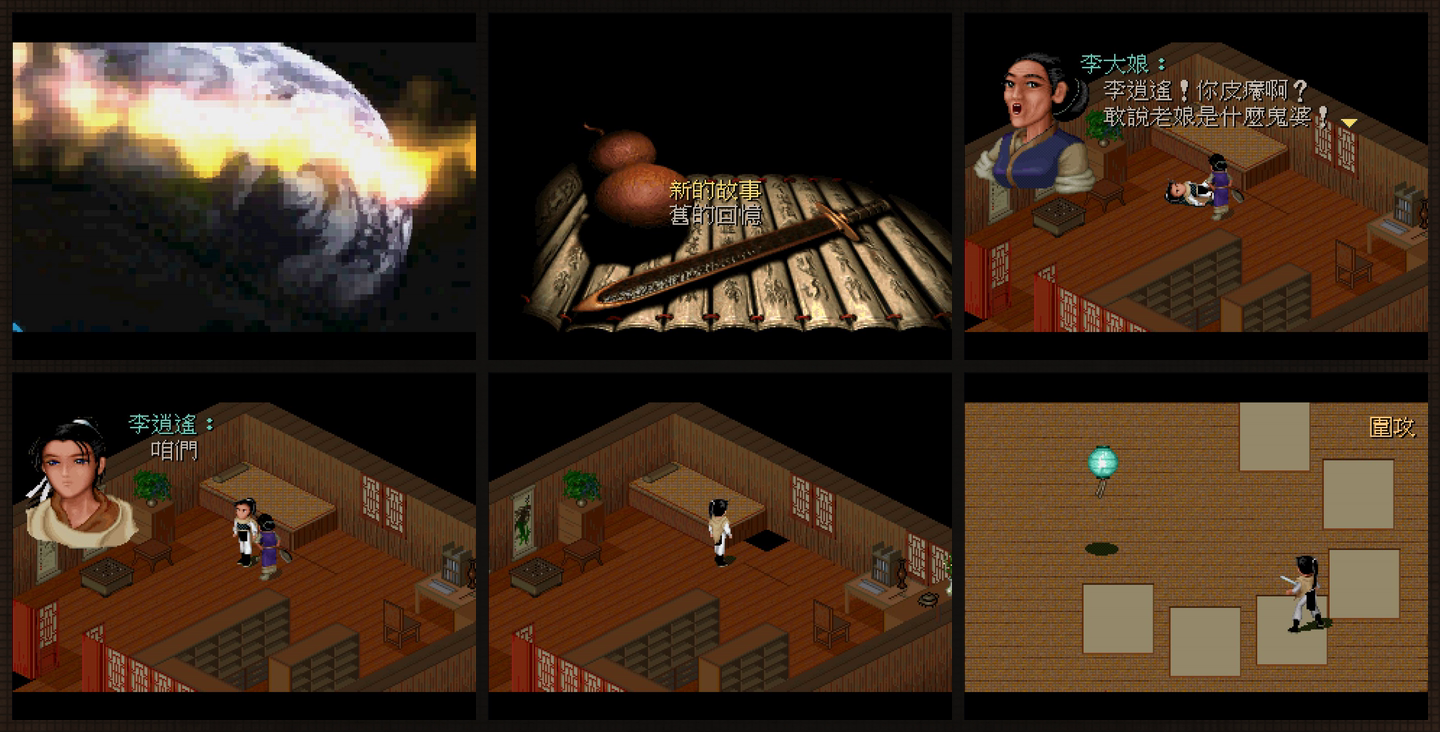
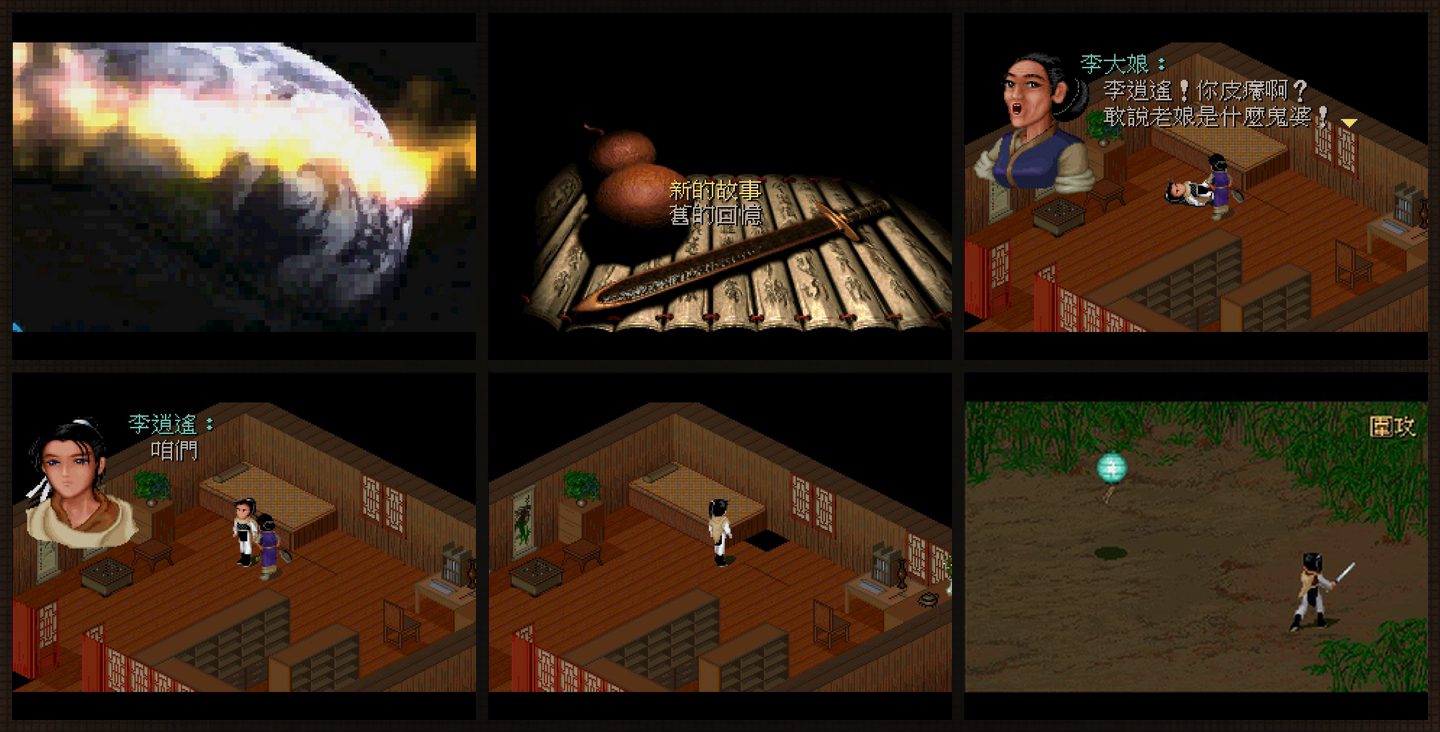
Fix battle regression backdrop

Changed region(s): [[0.6562, 0.541, 1.0, 0.9617]]

diff --git a/src/port/regression.c b/src/port/regression.c
@@ -12,6 +12,9 @@
 
 #define SAVE_EXPECT_MAGIC 0x31545350u
 
+#define BATTLE_TEST_FIELD 2u
+#define BATTLE_TEST_MUSIC 37u
+
 typedef struct pal9588_save_expect
 {
     DWORD magic;
@@ -170,7 +173,15 @@ static void run_battle_regression(void)
 
     reset_log("BATTLE START");
     gpGlobals->fInMainGame = TRUE;
-    PAL_InitGameData(1);
+    /*
+     * Use a deterministic new-game state instead of depending on a loose
+     * 1.rpg save.  The default state intentionally leaves the battlefield at
+     * FBP chunk 0, which is the player-status background rather than a battle
+     * scene; normal gameplay sets both values through scripts before combat.
+     */
+    PAL_InitGameData(0);
+    gpGlobals->wNumBattleField = BATTLE_TEST_FIELD;
+    gpGlobals->wNumBattleMusic = BATTLE_TEST_MUSIC;
     PAL_SetPalette(gpGlobals->wNumPalette, gpGlobals->fNightPalette);
     PAL_SetLoadFlags(kLoadScene | kLoadPlayerSprite);
     PAL_LoadResources();

diff --git a/docs/testing.md b/docs/testing.md
@@ -135,9 +135,11 @@ RELOAD PASS
 
 ## 战斗流程
 
-`PORTTEST.BATTLE` 从同一合法初始档装载调色板、场景和角色资源，进入一个无特殊
-脚本的单低级敌人队伍。测试模式只在战斗主循环进入 `OnGoing` 后注入一次 SDLPAL
-“自动攻击”动作，实际跑过敌我动画、伤害、音乐、音效、胜利结算和资源清理：
+`PORTTEST.BATTLE` 从确定的新游戏状态装载调色板、场景和角色资源，并显式使用
+2 号战场与初始档的 37 号战斗音乐，进入一个无特殊脚本的单低级敌人队伍。显式设置
+战场很重要：FBP 的 0、1 号图分别是角色状态页和装备页背景，并不是战斗场景；2 号
+是原版脚本实际使用的第一个战场。测试模式只在战斗主循环进入 `OnGoing` 后注入一次
+SDLPAL“自动攻击”动作，实际跑过敌我动画、伤害、音乐、音效、胜利结算和资源清理：
 
 ```text
 BATTLE START
